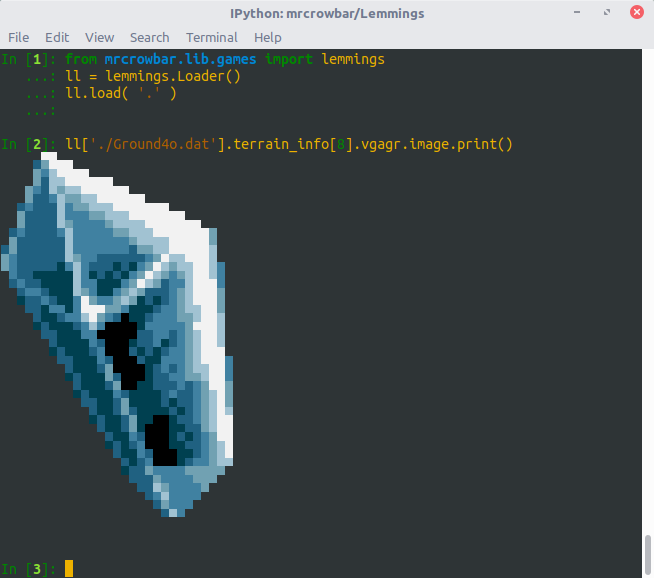
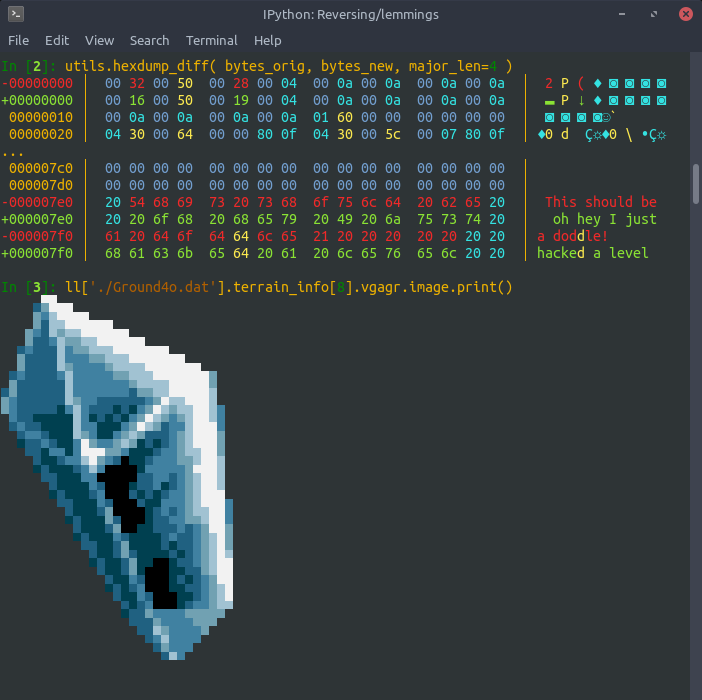
docs: show off coloured hex dumps!!!

diff --git a/doc/source/getting_started.rst b/doc/source/getting_started.rst
@@ -93,20 +93,37 @@ Finally, there is the option to load other ``Block`` classes from inside a paren
 
 As blocks are Python classes, it is trivial to extend them with custom code; here we've created a ``camera_x`` property which provides a transformed view of ``camera_x_raw`` taking into account the limitations of the game engine. This is useful for e.g. bitpacked values that need mathematical transformation to get the useful real-world equivalent.
 
-The above code is enough to create a two-way binding model for a Lemmings level. With some additional models and a Loader, it becomes possible to edit and write back parts of the game data:
+The above code is enough to create a two-way binding model for a Lemmings level. With some additional models and a Loader, it becomes possible to edit and write back parts of the game data. Here's an example for Lemmings; this will modify your game, so be sure to do this on a copy!
 
 .. code:: python
 
     from mrcrowbar.lib.games import lemmings
+    from mrcrowbar import utils
 
+    # auto-load all the files
     ll = lemmings.Loader()
     ll.load( '/path/to/copy/of/lemmings' )
 
+    # pick the first level of Tricky
     level = ll['/path/to/copy/of/lemmings/Level000.dat'].levels[0]   # <Level: This should be a doddle!>
+
+    # Level is a block type, which means we can peek at the bytes representation at any time
+    bytes_orig = level.export_data()
+    print( 'Original level data:' )
+    utils.hexdump( bytes_orig )
+
+    # change some stuff around!
     level.release_rate = 99
     level.num_to_save = 1
     level.name = b'  oh hey I just hacked a level  '
-    ll.save_file('/path/to/copy/of/lemmings/Level000.dat')
+
+    # now that the block has changed, the bytes will be different
+    bytes_new = level.export_data()
+    print( 'Changes:' )
+    utils.hexdump_diff( bytes_orig, bytes_new )
+
+    # finally, get the loader to save our changes back to the original file
+    ll.save_file( '/path/to/copy/of/lemmings/Level000.dat' )
 
 When we open up Lemmings and change the difficulty to "Tricky", we can see the changes. 
 

diff --git a/README.rst b/README.rst
@@ -107,20 +107,37 @@ As blocks are Python classes, it is trivial to extend them with custom code; her
 That wasn't an example, that was a snoozefest! Just tell me how to hack already 
 ===============================================================================
 
-Here's some code to edit a Lemmings level.
+Here's some code to edit a Lemmings level. (This will modify your game, so be sure to do this on a copy!)
 
 .. code:: python
 
     from mrcrowbar.lib.games import lemmings
+    from mrcrowbar import utils
 
+    # auto-load all the files
     ll = lemmings.Loader()
     ll.load( '/path/to/copy/of/lemmings' )
 
+    # pick the first level of Tricky
     level = ll['/path/to/copy/of/lemmings/Level000.dat'].levels[0]   # <Level: This should be a doddle!>
+
+    # Level is a block type, which means we can peek at the bytes representation at any time
+    bytes_orig = level.export_data()
+    print( 'Original level data:' )
+    utils.hexdump( bytes_orig )
+
+    # change some stuff around!
     level.release_rate = 99
     level.num_to_save = 1
     level.name = b'  oh hey I just hacked a level  '
-    ll.save_file('/path/to/copy/of/lemmings/Level000.dat')
+
+    # now that the block has changed, the bytes will be different
+    bytes_new = level.export_data()
+    print( 'Changes:' )
+    utils.hexdump_diff( bytes_new )
+
+    # finally, get the loader to save our changes back to the original file
+    ll.save_file( '/path/to/copy/of/lemmings/Level000.dat' )
 
 Open up Lemmings and change the difficulty to "Tricky". 
 
@@ -132,7 +149,7 @@ How about that? You master hacker you.
 Okay I'm slightly intrigued, but what about image and audio data?
 =================================================================
 
-We're working on base classes and views for those. As a bonus, you don't even have to leave the terminal to preview stuff:
+We're working on base classes and views for those. As a bonus, you don't even have to leave the Python shell to view hex or preview stuff:
 
 .. image:: doc/source/_static/image_print.png
 
